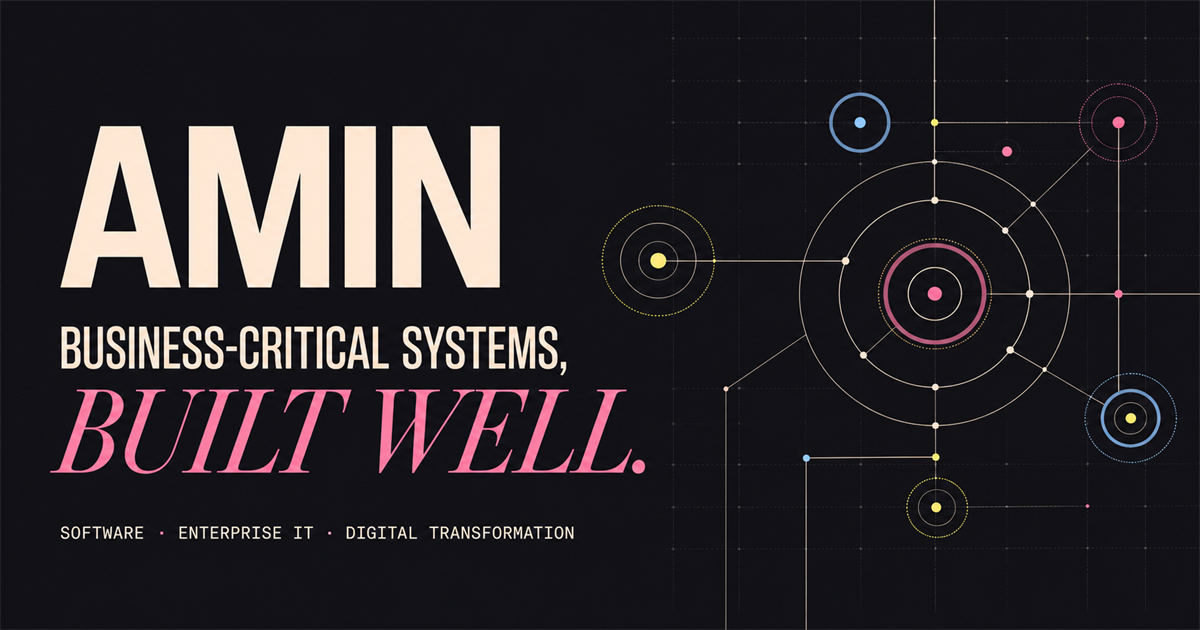
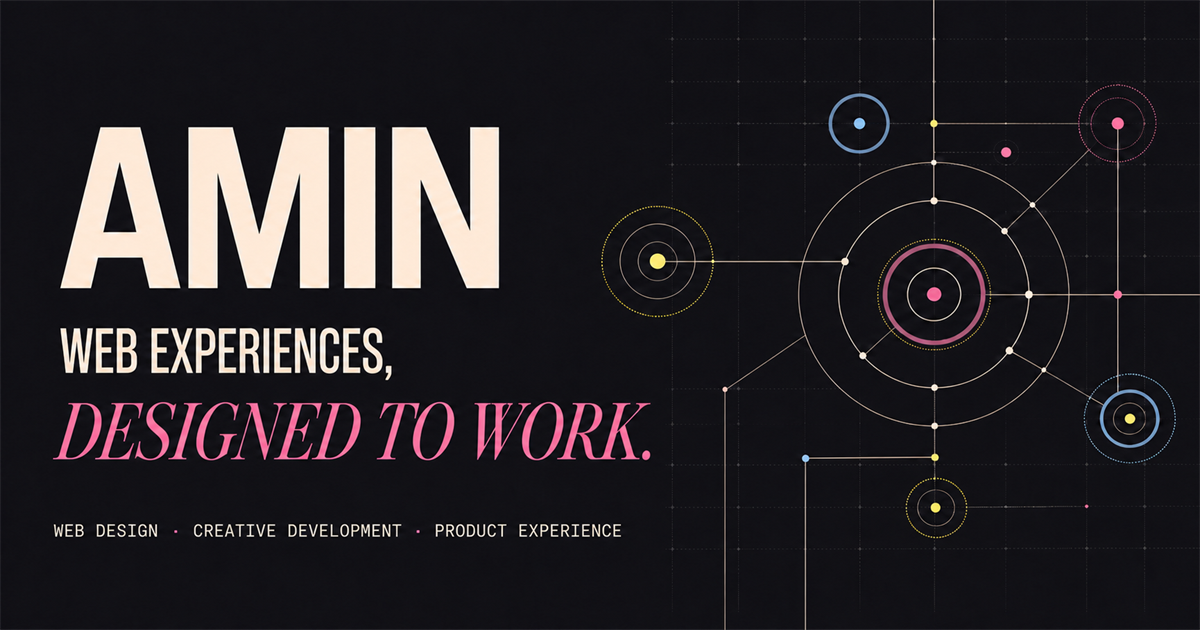
Reposition portfolio for web design and creative development

diff --git a/app/page.tsx b/app/page.tsx
@@ -12,12 +12,19 @@ import {
 type View = "home" | "work";
 
 const capabilities = [
-  ["01", "Software & product engineering", "Mobile products, web platforms and operational applications shaped around real business workflows."],
-  ["02", "Enterprise systems & ERP", "Business systems, SAP / HANA, reporting and process improvements across operational teams."],
-  ["03", "Infrastructure & resilience", "Virtualization, identity, networks, backup and disaster recovery designed as one operating environment."],
-  ["04", "Cybersecurity hardening", "Layered identity, endpoint, policy and audit controls introduced through staged enterprise deployment."],
-  ["05", "Commerce & automation", "Customer journeys, payments, accounts, delivery, integrations and administration across mobile and web."],
-  ["06", "Digital transformation", "Connecting product, process and technology decisions into systems that businesses can actually operate."],
+  ["01", "Web design & art direction", "Distinct visual systems, typography, composition and brand expression shaped for the screen."],
+  ["02", "Interface systems & UX", "Clear journeys, reusable components and interaction patterns designed around real user goals."],
+  ["03", "Creative front-end development", "Responsive interfaces translated into polished, performant web experiences with purposeful motion."],
+  ["04", "Commerce & conversion", "Product discovery, accounts, carts, payments and content designed as one coherent customer experience."],
+  ["05", "Multilingual responsive design", "English and Arabic experiences considered across hierarchy, layout, content and device behavior."],
+  ["06", "Product & systems thinking", "Design decisions grounded in backend realities, integrations, operations and long-term maintainability."],
+];
+
+const designPractice = [
+  ["01", "Direction", "A clear visual idea, not a borrowed template.", "Mood · Type · Composition"],
+  ["02", "Structure", "Hierarchy and journeys that make complex products feel simple.", "UX · Content · Systems"],
+  ["03", "Interaction", "Motion and feedback that create rhythm without stealing attention.", "Motion · States · Detail"],
+  ["04", "Build", "Responsive implementation where the final browser experience protects the design.", "React · Performance · QA"],
 ];
 
 const publicSurfaceProjects = [
@@ -250,7 +257,7 @@ function SiteHeader({ view, menuOpen, scrolled, dubaiTime, onMenu, onHome, onWor
   return (
     <header className={`site-header ${scrolled || view === "work" ? "is-scrolled" : ""}`}>
       <a className="wordmark" href="/" aria-label="Amin — home" onClick={(event) => { event.preventDefault(); onHome(); }}>
-        <span>AM</span><i /><small>Systems &<br />software</small>
+        <span>AM</span><i /><small>Design &<br />development</small>
       </a>
       <nav className={menuOpen ? "is-open" : ""} aria-label="Primary navigation">
         <a href="/work" onClick={(event) => { event.preventDefault(); onWork(); }}>Work</a>
@@ -271,10 +278,10 @@ function ContactFooter() {
   return (
     <footer className="contact" id="contact">
       <div className="contact-orbit" aria-hidden="true"><i /><i /><i /></div>
-      <div className="contact-top reveal-up" data-reveal><span>Business-critical technology, thoughtfully built.</span><span>Let’s make it real.</span></div>
+      <div className="contact-top reveal-up" data-reveal><span>Distinctive digital experiences, thoughtfully built.</span><span>Let’s make it real.</span></div>
       <a className="contact-title reveal-up" data-reveal href="mailto:info@Haak-org.com">Start a<br /><em>conversation.</em><b>↗</b></a>
       <div className="contact-bottom">
-        <div className="contact-identity"><strong>Amin</strong><span>Software · Enterprise IT · Digital Transformation</span></div>
+        <div className="contact-identity"><strong>Amin</strong><span>Web Design · Creative Development · Product Systems</span></div>
         <div className="contact-links"><a href="mailto:info@Haak-org.com">Email ↗</a><a href="https://wa.me/971551686040" target="_blank" rel="noreferrer">WhatsApp ↗</a><a href="#top">Back to top ↑</a></div>
         <p>Dubai, UAE<br />© {new Date().getFullYear()}</p>
       </div>
@@ -287,28 +294,28 @@ function HomeView({ openCaseStudy, onViewAll }: { openCaseStudy: (project: Proje
     <>
       <section className="hero" id="top">
         <div className="hero-grid" aria-hidden="true" />
-        <div className="hero-kicker reveal-up" data-reveal><span>Software engineering</span><span>Enterprise IT</span><span>Digital transformation</span></div>
+        <div className="hero-kicker reveal-up" data-reveal><span>Web design</span><span>Creative development</span><span>Product experience</span></div>
         <HeroProjectShowcase />
-        <h1 className="hero-title reveal-up" data-reveal>Business-critical<span>systems, <em>built well.</em></span></h1>
+        <h1 className="hero-title reveal-up" data-reveal>Web experiences,<span><em>designed</em> to work.</span></h1>
         <div className="hero-bottom reveal-up" data-reveal>
-          <p>I design, build and transform the technology businesses rely on—from mobile products and ERP workflows to infrastructure, security and digital commerce.</p>
+          <p>I design and build expressive, responsive websites and product interfaces—combining visual direction, interaction, frontend craft and serious systems thinking.</p>
           <a className="round-link" href="#work" aria-label="Explore selected work"><span>Explore<br />the work</span><b>↓</b></a>
         </div>
-        <div className="hero-orbit" aria-hidden="true"><span className="orbit-dot" /><span className="orbit-label">Product × Systems × Infrastructure</span></div>
+        <div className="hero-orbit" aria-hidden="true"><span className="orbit-dot" /><span className="orbit-label">Design × Interaction × Development</span></div>
       </section>
 
       <section className="proof-strip" aria-label="Scope of work">
-        <div><strong>03</strong><span>Verified public<br />deployments</span></div>
-        <div><strong>PROD</strong><span>Private systems &<br />environments</span></div>
-        <div><strong>EN / AR</strong><span>Multilingual<br />products</span></div>
-        <div><strong>UAE</strong><span>Enterprise &<br />regional context</span></div>
+        <div><strong>03</strong><span>Live web<br />experiences</span></div>
+        <div><strong>UI / UX</strong><span>Interface systems &<br />interaction design</span></div>
+        <div><strong>EN / AR</strong><span>Multilingual<br />responsive design</span></div>
+        <div><strong>DXB</strong><span>Design & development<br />from Dubai</span></div>
       </section>
 
-      <section className="motion-marquee" aria-label="Areas of expertise"><div className="motion-marquee-track">{[0, 1].map((group) => <div key={group} aria-hidden={group === 1}><span>Software engineering</span><i>✦</i><span>Enterprise systems</span><i>✦</i><span>Infrastructure</span><i>✦</i><span>Cybersecurity</span><i>✦</i><span>ERP / SAP</span><i>✦</i><span>Mobile products</span><i>✦</i></div>)}</div></section>
+      <section className="motion-marquee" aria-label="Areas of expertise"><div className="motion-marquee-track">{[0, 1].map((group) => <div key={group} aria-hidden={group === 1}><span>Art direction</span><i>✦</i><span>Interface design</span><i>✦</i><span>Responsive web</span><i>✦</i><span>Creative development</span><i>✦</i><span>Motion systems</span><i>✦</i><span>Commerce UX</span><i>✦</i></div>)}</div></section>
 
       <section className="work-intro section-shell" id="work">
         <div className="section-label reveal-up" data-reveal><span>01</span><p>Selected work</p></div>
-        <div className="work-heading reveal-up" data-reveal><h2>Systems with real responsibility.</h2><p>Public products are only one part of the story. This work also spans private platforms, production infrastructure, ERP, cybersecurity and enterprise transformation.</p></div>
+        <div className="work-heading reveal-up" data-reveal><h2>Interfaces with intent.</h2><p>Selected websites and product experiences where visual identity, usability and implementation work together. Deeper platform and systems work remains part of the story.</p></div>
       </section>
 
       <section className="featured-work section-shell" aria-label="Featured case studies">
@@ -322,39 +329,36 @@ function HomeView({ openCaseStudy, onViewAll }: { openCaseStudy: (project: Proje
         <button type="button" className="all-work-cta reveal-up" data-reveal onClick={onViewAll}><span>Explore the broader portfolio</span><strong>View all work</strong><i>→</i></button>
       </section>
 
-      <section className="live-surfaces section-shell" aria-label="Public product surfaces">
-        <div className="section-label reveal-up" data-reveal><span>LIVE</span><p>Public product surfaces</p></div>
-        <div className="live-surfaces-heading reveal-up" data-reveal>
-          <h2>Real work,<br /><em>in the wild.</em></h2>
-          <p>Three public deployments provide a direct view into the interface craft, responsive execution and product thinking behind the broader systems work.</p>
+      <section className="design-practice section-shell" aria-label="Design practice">
+        <div className="section-label reveal-up" data-reveal><span>02</span><p>Design practice</p></div>
+        <div className="design-practice-heading reveal-up" data-reveal>
+          <p>From first impression<br />to final interaction.</p>
+          <h2>Visual clarity with<br /><em>technical depth.</em></h2>
         </div>
-        <div className="surface-grid">
-          {publicSurfaceProjects.map((project, index) => (
-            <a className={`surface-card surface-card-${index + 1} reveal-up`} data-reveal href={project.liveUrl} target="_blank" rel="noreferrer" key={project.slug}>
-              <div className="surface-browser">
-                <div className="surface-browser-bar"><span><i /><i /><i /></span><small>{project.liveUrl?.replace("https://", "").replace(/\/$/, "")}</small><b>LIVE ↗</b></div>
-                <img src={project.coverAsset} alt={project.coverAlt ?? `${project.shortTitle} public website`} />
-              </div>
-              <div className="surface-copy"><span>0{index + 1} · {project.category}</span><h3>{project.shortTitle}</h3><p>{project.shortDescription}</p><i>Open live project ↗</i></div>
-            </a>
+        <div className="design-practice-grid">
+          {designPractice.map(([number, title, description, detail]) => (
+            <article className="practice-card reveal-up" data-reveal key={number}>
+              <span>{number}</span><i aria-hidden="true" /><h3>{title}</h3><p>{description}</p><small>{detail}</small>
+            </article>
           ))}
         </div>
+        <div className="design-type-band reveal-up" data-reveal aria-hidden="true"><span>Hierarchy</span><i>×</i><span>Rhythm</span><i>×</i><span>Motion</span><i>×</i><span>Response</span></div>
       </section>
 
       <section className="about section-shell" id="about">
-        <div className="section-label light reveal-up" data-reveal><span>02</span><p>How I work</p></div>
-        <div className="about-copy reveal-up" data-reveal><p className="eyebrow">Business context. Technical depth. Operational reality.</p><h2>I work where software, infrastructure and business operations <em>meet.</em></h2></div>
-        <div className="about-detail reveal-up" data-reveal><p>The work is deliberately broad because real transformation rarely stays inside one discipline. A mobile ordering product can depend on identity, payments, delivery operations, backend data and future ERP integration.</p><p>I translate that complexity into systems that are understandable, controlled and appropriate for the environment—whether the output is public, private, internal or production infrastructure.</p></div>
+        <div className="section-label light reveal-up" data-reveal><span>03</span><p>How I work</p></div>
+        <div className="about-copy reveal-up" data-reveal><p className="eyebrow">Visual character. Product clarity. Technical reality.</p><h2>I work where identity, interaction and product logic <em>meet.</em></h2></div>
+        <div className="about-detail reveal-up" data-reveal><p>A strong website is more than a polished first screen. It needs a point of view, a coherent design system, clear journeys and responsive behavior that feels considered at every size.</p><p>Because I also build the technology underneath, design decisions stay grounded in performance, content, integrations and the realities of a working product—not just a static composition.</p></div>
       </section>
 
       <section className="capabilities section-shell" id="capabilities">
-        <div className="section-label reveal-up" data-reveal><span>03</span><p>Capabilities demonstrated</p></div>
+        <div className="section-label reveal-up" data-reveal><span>04</span><p>Capabilities demonstrated</p></div>
         <div className="capability-list">{capabilities.map(([number, title, description]) => <div className="capability reveal-up" data-reveal key={number}><span>{number}</span><h3>{title}</h3><p>{description}</p><i>↗</i></div>)}</div>
       </section>
 
       <section className="stack-section section-shell">
-        <div className="section-label reveal-up" data-reveal><span>04</span><p>Working landscape</p></div>
-        <div className="stack-layout reveal-up" data-reveal><h2>Broad scope.<br /><em>One systems view.</em></h2><div className="stack-groups"><div><span>Software</span><p>React · Next.js · Mobile applications · APIs · PostgreSQL · Supabase · Authentication</p></div><div><span>Enterprise</span><p>SAP Business One · SAP HANA · SQL reporting · HRMS · Business process design</p></div><div><span>Infrastructure</span><p>Proxmox · Windows Server · Active Directory · FortiGate · VLANs · VPN · Backup · DR</p></div><div><span>Delivery</span><p>Vercel · Cloudflare · Integrations · Technical SEO · Performance · Security hardening</p></div></div></div>
+        <div className="section-label reveal-up" data-reveal><span>05</span><p>Working landscape</p></div>
+        <div className="stack-layout reveal-up" data-reveal><h2>Design vision.<br /><em>Production detail.</em></h2><div className="stack-groups"><div><span>Design</span><p>Art direction · Typography · Layout systems · UI/UX · Responsive design · Prototyping</p></div><div><span>Interaction</span><p>Motion language · Micro-interactions · Component states · Navigation · Feedback · Accessibility</p></div><div><span>Development</span><p>React · Next.js · APIs · PostgreSQL · Supabase · Authentication · Mobile products</p></div><div><span>Delivery</span><p>Vercel · Cloudflare · Technical SEO · Performance · Analytics · Security · Integrations</p></div></div></div>
       </section>
       <ContactFooter />
     </>
@@ -366,8 +370,8 @@ function WorkView({ category, onCategory, openCaseStudy }: { category: "All" | P
   return (
     <div className="work-page" id="top">
       <section className="work-page-hero section-shell">
-        <div className="section-label reveal-up" data-reveal><span>WORK</span><p>Public products · Private systems · Enterprise programs</p></div>
-        <div className="work-page-title reveal-up" data-reveal><p>Selected systems and transformation work across software, mobile, enterprise IT, infrastructure, cybersecurity and ERP.</p><h1>A wider view<br />of the <em>work.</em></h1></div>
+        <div className="section-label reveal-up" data-reveal><span>WORK</span><p>Web experiences · Products · Private systems</p></div>
+        <div className="work-page-title reveal-up" data-reveal><p>A complete view of the websites, product interfaces and deeper systems work—each presented according to its real public, private or production status.</p><h1>The work,<br /><em>in full.</em></h1></div>
       </section>
       <section className="work-index section-shell">
         <div className="work-filters" role="group" aria-label="Filter projects">{projectCategories.map((item) => <button type="button" key={item} className={category === item ? "is-active" : ""} onClick={() => onCategory(item)}>{item}<span>{item === "All" ? projects.length : projects.filter((project) => project.category === item).length}</span></button>)}</div>

diff --git a/app/globals.css b/app/globals.css
@@ -194,6 +194,30 @@ main::before { content: ""; position: fixed; z-index: 300; top: 0; left: 0; widt
 .surface-copy h3 { max-width: calc(100% - 70px); margin: 20px 0 15px; font-size: clamp(34px,3.8vw,58px); line-height: .92; letter-spacing: -.055em; font-weight: 560; }
 .surface-copy p { max-width: 620px; margin: 0; color: rgba(23,21,26,.7); font-size: 13px; line-height: 1.62; }
 .surface-copy > i { display: inline-block; margin-top: 25px; padding-bottom: 5px; border-bottom: 1px solid rgba(23,21,26,.4); font-size: 8px; font-style: normal; letter-spacing: .09em; text-transform: uppercase; }
+
+.design-practice { overflow: hidden; padding-top: 135px; padding-bottom: 150px; color: var(--cream); background: linear-gradient(180deg,rgba(255,132,186,.04),transparent 32%); border-top: 1px solid rgba(255,255,255,.09); }
+.design-practice-heading { display: grid; grid-template-columns: .55fr 1.45fr; gap: 7vw; align-items: end; padding: 70px 0 80px 6vw; }
+.design-practice-heading > p { margin: 0 0 8px; color: rgba(255,239,227,.54); font-family: var(--font-geist-mono),monospace; font-size: 10px; line-height: 1.6; letter-spacing: .09em; text-transform: uppercase; }
+.design-practice-heading h2 { margin: 0; font-size: clamp(54px,7.3vw,112px); line-height: .82; letter-spacing: -.065em; font-weight: 560; }
+.design-practice-heading h2 em { color: var(--accent); font-family: var(--display); font-weight: 400; text-shadow: 0 0 34px rgba(255,132,186,.18); }
+.design-practice-grid { display: grid; grid-template-columns: repeat(4,1fr); border-block: 1px solid rgba(255,255,255,.14); }
+.practice-card { position: relative; min-height: 430px; display: flex; flex-direction: column; padding: 25px; overflow: hidden; border-right: 1px solid rgba(255,255,255,.14); transition: color .4s ease,background .4s ease,transform .4s ease; }
+.practice-card:last-child { border: 0; }
+.practice-card::before { content: ""; position: absolute; inset: auto -25% -45% 18%; aspect-ratio: 1; border: 1px solid rgba(255,255,255,.11); border-radius: 50%; box-shadow: 0 0 0 45px rgba(255,255,255,.012),0 0 0 90px rgba(255,255,255,.009); transition: transform .6s cubic-bezier(.2,.7,.1,1); }
+.practice-card:hover { color: var(--ink); transform: translateY(-8px); }
+.practice-card:nth-child(1):hover { background: var(--accent); }.practice-card:nth-child(2):hover { background: var(--sky); }.practice-card:nth-child(3):hover { background: var(--sun); }.practice-card:nth-child(4):hover { background: var(--cream); }
+.practice-card:hover::before { border-color: rgba(23,21,26,.2); transform: scale(1.18); }
+.practice-card > span { font-family: var(--font-geist-mono),monospace; font-size: 8px; letter-spacing: .11em; opacity: .55; }
+.practice-card > i { width: 9px; height: 9px; margin-top: 70px; border-radius: 50%; background: var(--accent); box-shadow: 0 0 18px currentColor; }
+.practice-card:nth-child(2) > i { background: var(--sky); }.practice-card:nth-child(3) > i { background: var(--sun); }.practice-card:nth-child(4) > i { background: var(--cream); }
+.practice-card h3 { position: relative; z-index: 1; margin: auto 0 18px; font-size: clamp(31px,3.2vw,50px); line-height: .92; letter-spacing: -.05em; font-weight: 560; }
+.practice-card p { position: relative; z-index: 1; min-height: 58px; margin: 0; color: rgba(255,239,227,.6); font-size: 12px; line-height: 1.55; transition: color .4s ease; }
+.practice-card:hover p { color: rgba(23,21,26,.68); }
+.practice-card small { position: relative; z-index: 1; margin-top: 30px; padding-top: 15px; border-top: 1px solid rgba(255,255,255,.16); font-family: var(--font-geist-mono),monospace; font-size: 7px; letter-spacing: .09em; text-transform: uppercase; }
+.practice-card:hover small { border-color: rgba(23,21,26,.24); }
+.design-type-band { display: flex; align-items: center; justify-content: space-between; gap: 25px; overflow: hidden; padding: 80px 0 0; white-space: nowrap; }
+.design-type-band span { font-family: var(--display); font-size: clamp(42px,6.5vw,98px); font-style: italic; letter-spacing: -.04em; }
+.design-type-band i { color: var(--accent); font-family: var(--font-geist-mono),monospace; font-size: 15px; font-style: normal; }
 .system-cover { color: var(--white); background-color: #111519; background-image: linear-gradient(rgba(255,255,255,.05) 1px, transparent 1px), linear-gradient(90deg,rgba(255,255,255,.05) 1px, transparent 1px); background-size: 48px 48px; }
 .cover-label { position: absolute; z-index: 4; top: 0; left: 0; width: 100%; height: 48px; display: flex; align-items: center; justify-content: space-between; padding: 0 18px; border-bottom: 1px solid rgba(255,255,255,.12); font-family: var(--font-geist-mono), monospace; font-size: 8px; letter-spacing: .1em; }
 .cover-label b { color: var(--accent); font-weight: 500; }
@@ -284,7 +308,7 @@ main::before { content: ""; position: fixed; z-index: 300; top: 0; left: 0; widt
 .seo-layers span { padding: 10px 14px; border: 1px solid rgba(255,255,255,.15); font-family: var(--font-geist-mono), monospace; font-size: 7px; letter-spacing: .08em; }
 
 .about { position: relative; overflow: hidden; padding-top: 145px; padding-bottom: 150px; color: var(--white); background: var(--ink); }
-.about::before { content: "02"; position: absolute; right: -2vw; top: 6vw; color: rgba(255,255,255,.022); font-size: 38vw; line-height: 1; letter-spacing: -.12em; font-weight: 700; }
+.about::before { content: "03"; position: absolute; right: -2vw; top: 6vw; color: rgba(255,255,255,.022); font-size: 38vw; line-height: 1; letter-spacing: -.12em; font-weight: 700; }
 .about-copy { position: relative; max-width: 1240px; padding: 90px 4vw 70px 6vw; }
 .eyebrow { margin: 0 0 50px; color: var(--accent); font-family: var(--font-geist-mono), monospace; font-size: 10px; letter-spacing: .13em; text-transform: uppercase; }
 .about-copy h2 { font-size: clamp(48px,6.3vw,96px); }
@@ -463,6 +487,9 @@ main > section,main > footer,main > .work-page { position: relative; z-index: 1;
 .featured-card:nth-child(3n+1) { box-shadow: inset 0 1px rgba(255,132,186,.28),0 25px 70px rgba(0,0,0,.2); }
 .featured-card:nth-child(3n+2) { box-shadow: inset 0 1px rgba(153,194,255,.3),0 25px 70px rgba(0,0,0,.2); }
 .featured-card:nth-child(3n) { box-shadow: inset 0 1px rgba(255,223,130,.28),0 25px 70px rgba(0,0,0,.2); }
+.featured-card:nth-child(1),.featured-card:nth-child(2),.featured-card:nth-child(3) { box-shadow: inset 0 2px var(--accent),0 25px 70px rgba(0,0,0,.24); }
+.featured-card:nth-child(2) { box-shadow: inset 0 2px var(--sky),0 25px 70px rgba(0,0,0,.24); }
+.featured-card:nth-child(3) { box-shadow: inset 0 2px var(--sun),0 25px 70px rgba(0,0,0,.24); }
 .featured-card:hover { box-shadow: 0 34px 90px rgba(0,0,0,.46),0 0 45px rgba(153,194,255,.07); }
 .featured-card-head,.featured-card-copy > small,.work-row-copy > small,.tech-line i,.status-pill { border-color: rgba(255,255,255,.14); }
 .featured-card-copy > small,.work-row-copy > small { color: rgba(255,239,227,.56); }
@@ -504,6 +531,19 @@ main > section,main > footer,main > .work-page { position: relative; z-index: 1;
 .contact { background: radial-gradient(circle at 82% 68%,rgba(153,194,255,.16),transparent 28%),radial-gradient(circle at 62% 18%,rgba(255,132,186,.14),transparent 24%),rgba(9,8,18,.84); border-top: 1px solid rgba(255,255,255,.11); backdrop-filter: blur(8px); }
 .contact::before { content: ""; position: absolute; inset: 0; opacity: .35; background-image: radial-gradient(circle,#fff 0 .7px,transparent 1px); background-size: 91px 91px; }
 .contact-title em { text-shadow: 0 0 45px rgba(255,223,130,.18); }
+
+/* Web designer portfolio emphasis */
+.hero-title { max-width: 72vw; }
+.hero-title > span { padding-left: 5vw; }
+.hero-title em { color: var(--accent); }
+.hero-shot { transition: z-index 0s,transform .55s cubic-bezier(.2,.7,.1,1),filter .4s ease,opacity .4s ease; }
+.hero-shot img { transition: transform .8s cubic-bezier(.2,.7,.1,1),filter .5s ease; }
+.hero-shot:hover img { transform: scale(1.035); filter: saturate(1.12) contrast(1.03); }
+.featured-card:nth-child(-n+3) .browser-cover img { filter: saturate(1.04); }
+.featured-card:nth-child(-n+3):hover .browser-cover img { transform: scale(1.035); filter: saturate(1.12); }
+.featured-card-copy h3 { text-wrap: balance; }
+.all-work-cta strong { color: var(--cream); }
+.all-work-cta:hover strong { color: var(--ink); }
 
 .reveal-up { opacity: 0; transform: translateY(24px); transition: opacity .8s ease, transform .9s cubic-bezier(.2,.7,.1,1); }
 .reveal-up.is-visible { opacity: 1; transform: none; }
@@ -590,6 +630,18 @@ main > section,main > footer,main > .work-page { position: relative; z-index: 1;
   .erp-flow > div { min-height: 82px; padding: 7px; }.erp-flow strong { margin-top: 10px; font-size: 8px; }.erp-flow span { font-size: 6px; }
   .delivery-lanes { top: 27%; grid-template-columns: 1fr 1fr; }.delivery-lanes > div { min-height: 62px; padding: 7px; }.delivery-lanes strong { margin: 8px 0 3px; font-size: 8px; }
   .security-rings { left: 4%; width: 160px; }.security-controls { right: 3%; width: 43%; }.security-controls span { padding: 7px 5px; font-size: 5px; }
+  .design-practice { padding-top: 90px; padding-bottom: 95px; }
+  .design-practice-heading { display: block; padding: 50px 0 55px; }
+  .design-practice-heading > p { margin-bottom: 30px; }
+  .design-practice-heading h2 { font-size: 13vw; }
+  .design-practice-grid { grid-template-columns: 1fr 1fr; }
+  .practice-card { min-height: 320px; padding: 18px; border-bottom: 1px solid rgba(255,255,255,.14); }
+  .practice-card:nth-child(2) { border-right: 0; }.practice-card:nth-child(3) { border-bottom: 0; }
+  .practice-card > i { margin-top: 36px; }
+  .practice-card h3 { font-size: 9vw; }
+  .practice-card p { font-size: 11px; }
+  .design-type-band { gap: 16px; overflow: hidden; padding-top: 55px; }
+  .design-type-band span { font-size: 12vw; }.design-type-band span:nth-of-type(n+3),.design-type-band i:nth-of-type(n+3) { display: none; }
   .live-surfaces { padding-top: 0; padding-bottom: 95px; }
   .live-surfaces-heading { display: block; padding: 50px 0; }
   .live-surfaces-heading h2 { font-size: 13vw; }
@@ -632,6 +684,7 @@ main > section,main > footer,main > .work-page { position: relative; z-index: 1;
   .site-header nav::before { content: ""; position: absolute; inset: 0; opacity: .35; pointer-events: none; background-image: radial-gradient(circle,#fff 0 .7px,transparent 1px); background-size: 71px 71px; }
   .site-header nav a { position: relative; z-index: 1; }
   .hero { background: linear-gradient(180deg,rgba(8,8,17,.15),rgba(8,8,17,.76)); }
+  .hero-title { max-width: 100%; }
   .proof-strip { gap: 1px; padding: 1px; background: rgba(153,194,255,.12); }
   .proof-strip > div { padding: 17px 14px; border: 0; background: rgba(10,10,20,.88); }
   .proof-strip > div:nth-child(2),.proof-strip > div:nth-child(4) { padding-left: 14px; }

diff --git a/app/project-data.ts b/app/project-data.ts
@@ -157,13 +157,13 @@ export const projects: Project[] = [
     title: "HAAK Solutions",
     shortTitle: "HAAK Solutions",
     shortDescription:
-      "A software and IT solutions practice spanning products, enterprise systems, web applications and premium digital experiences.",
+      "A bold, responsive brand experience translating a broad technology practice into a clear and energetic digital presence.",
     category: "Products",
     projectType: "Software Products · IT Solutions · Digital Transformation",
     status: "Public Website / Solutions Practice",
     statusKind: "live",
     featured: true,
-    role: "Software products · Digital experience · IT solutions",
+    role: "Web design · Creative development · Interactive direction",
     technologies: ["React", "Vite", "Web applications", "Enterprise systems", "Responsive design"],
     capabilities: [
       "Software products",
@@ -326,13 +326,13 @@ export const projects: Project[] = [
     title: "Sahaba Water",
     shortTitle: "Sahaba Water",
     shortDescription:
-      "A bilingual direct-to-consumer storefront with product discovery, quantities, cart flows and customer account access.",
+      "A polished bilingual storefront balancing atmospheric brand design with practical product, cart and account journeys.",
     category: "Web",
     projectType: "Public Website · Bilingual Commerce",
     status: "Live Product",
     statusKind: "live",
     featured: false,
-    role: "Frontend development · Commerce UX",
+    role: "Web design · Frontend development · Commerce UX",
     technologies: ["React", "Product catalogue", "Cart flows", "Google Identity", "Arabic / English"],
     capabilities: ["Product catalogue", "Quantity controls", "Cart", "Customer access", "Responsive commerce", "Bilingual UI"],
     liveUrl: "https://sahaba-frontend.vercel.app/",
@@ -353,13 +353,13 @@ export const projects: Project[] = [
     title: "Alrawdah Springs Public Commerce Website",
     shortTitle: "Alrawdah Springs Web",
     shortDescription:
-      "A multilingual commerce and content platform supporting products, accounts, delivery information, order journeys and regional discovery.",
+      "A high-contrast multilingual commerce experience shaped around product storytelling, buying journeys and UAE-wide delivery.",
     category: "Web",
     projectType: "Public Website · Commerce · SEO",
     status: "Public Website",
     statusKind: "live",
     featured: false,
-    role: "Web platform · Technical SEO · Conversion",
+    role: "Web design · Commerce UX · Technical SEO · Conversion",
     technologies: ["Custom commerce", "Cloudflare", "Technical SEO", "Structured data", "Consent-managed analytics"],
     capabilities: ["Catalogue and cart", "Customer accounts", "Order tracking", "Regional landing pages", "Arabic / English", "Performance and conversion"],
     liveUrl: "https://rswater.ae/",
@@ -410,7 +410,18 @@ export const projects: Project[] = [
   },
 ];
 
-export const featuredProjects = projects.filter((project) => project.featured);
+const featuredProjectOrder = [
+  "alrawdah-public-commerce-website",
+  "sahaba-water",
+  "haak-solutions",
+  "alrawdah-digital-commerce-platform",
+  "falcon-crm",
+  "infrastructure-disaster-recovery-transformation",
+];
+
+export const featuredProjects = featuredProjectOrder
+  .map((slug) => projects.find((project) => project.slug === slug))
+  .filter((project): project is Project => Boolean(project));
 
 export const projectCategories: Array<"All" | ProjectCategory> = [
   "All",

diff --git a/index.html b/index.html
@@ -3,16 +3,16 @@
   <head>
     <meta charset="UTF-8" />
     <meta name="viewport" content="width=device-width, initial-scale=1.0" />
-    <title>Amin — Software, Enterprise IT & Digital Transformation</title>
-    <meta name="description" content="Selected work across software engineering, mobile products, enterprise systems, infrastructure, cybersecurity, SAP and digital transformation." />
+    <title>Amin — Web Designer & Creative Developer in Dubai</title>
+    <meta name="description" content="Web design, creative development and product experiences backed by serious software and systems expertise." />
     <meta name="theme-color" content="#17151a" />
     <meta property="og:type" content="website" />
-    <meta property="og:title" content="Amin — Business-critical systems, built well." />
-    <meta property="og:description" content="Software, enterprise IT, infrastructure, SAP, cybersecurity and digital transformation." />
+    <meta property="og:title" content="Amin — Web experiences, designed to work." />
+    <meta property="og:description" content="Web design, creative development and product experience from Dubai." />
     <meta property="og:image" content="https://amin-built-to-operate.vercel.app/og-systems.png" />
     <meta name="twitter:card" content="summary_large_image" />
-    <meta name="twitter:title" content="Amin — Business-critical systems, built well." />
-    <meta name="twitter:description" content="Software, enterprise IT, infrastructure, SAP, cybersecurity and digital transformation." />
+    <meta name="twitter:title" content="Amin — Web experiences, designed to work." />
+    <meta name="twitter:description" content="Web design, creative development and product experience from Dubai." />
     <meta name="twitter:image" content="https://amin-built-to-operate.vercel.app/og-systems.png" />
   </head>
   <body>

diff --git a/app/layout.tsx b/app/layout.tsx
@@ -20,11 +20,14 @@ export async function generateMetadata(): Promise<Metadata> {
   const socialImage = `${protocol}://${host}/og-systems.png`;
 
   return {
-    title: "Amin — Software, Enterprise IT & Digital Transformation",
+    title: "Amin — Web Designer & Creative Developer in Dubai",
     description:
-      "Selected work across software engineering, mobile products, enterprise systems, infrastructure, cybersecurity, SAP and digital transformation.",
+      "Web design, creative development and product experiences backed by serious software and systems expertise.",
     keywords: [
       "software developer Dubai",
+      "web designer Dubai",
+      "creative developer Dubai",
+      "UI UX designer UAE",
       "digital solutions",
       "enterprise systems",
       "digital transformation UAE",
@@ -34,15 +37,15 @@ export async function generateMetadata(): Promise<Metadata> {
       "ecommerce development UAE",
     ],
     openGraph: {
-      title: "Amin — Business-critical systems, built well.",
-      description: "Software, enterprise IT, infrastructure, SAP, cybersecurity and digital transformation.",
+      title: "Amin — Web experiences, designed to work.",
+      description: "Web design, creative development and product experience from Dubai.",
       type: "website",
       images: [{ url: socialImage, width: 1200, height: 630, alt: "Amin — Business-critical systems, built well" }],
     },
     twitter: {
       card: "summary_large_image",
-      title: "Amin — Business-critical systems, built well.",
-      description: "Software, enterprise IT, infrastructure, SAP, cybersecurity and digital transformation.",
+      title: "Amin — Web experiences, designed to work.",
+      description: "Web design, creative development and product experience from Dubai.",
       images: [socialImage],
     },
   };
